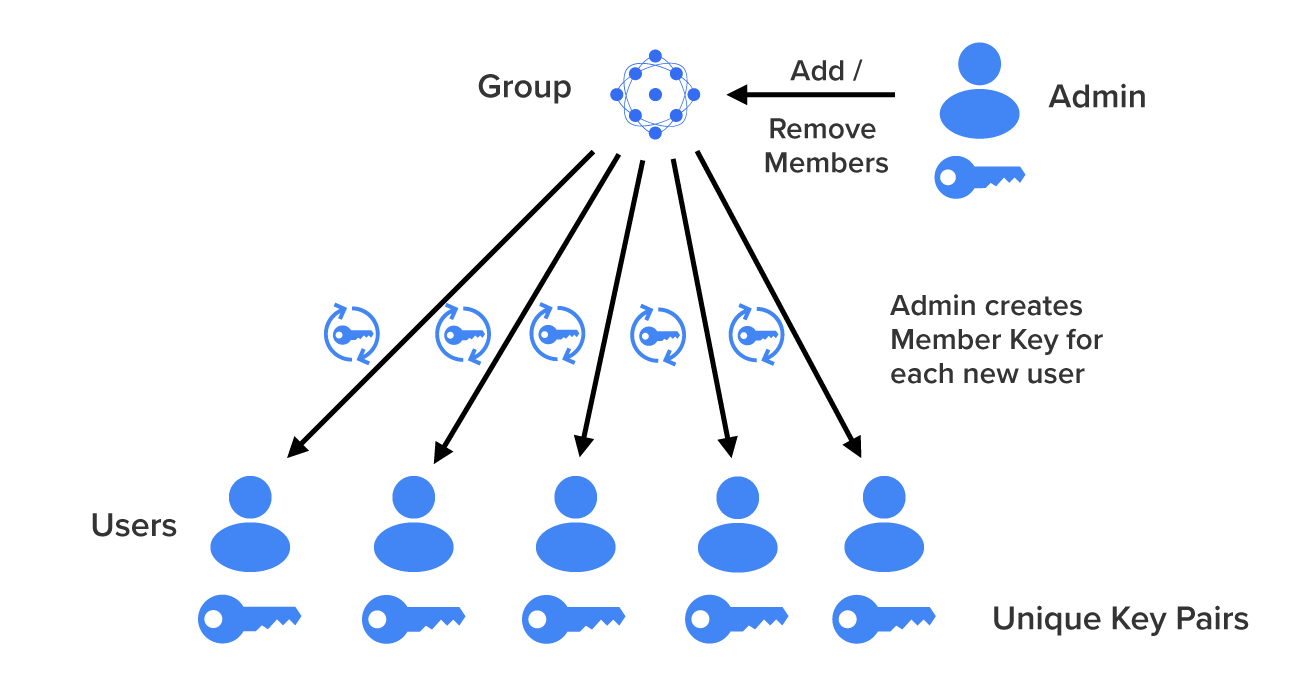
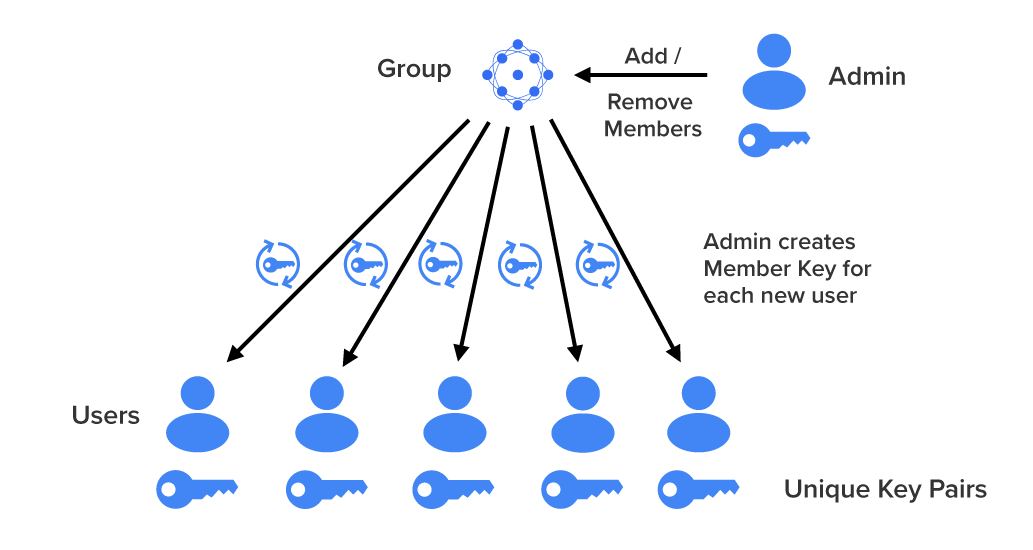
Shrunk images and fixed some visual issues

diff --git a/_sass/slides.v2.3.scss b/_sass/slides.v2.3.scss
@@ -730,15 +730,14 @@ input:focus:valid {
   box-shadow: 0 0 10px $green;
 }
 .highlight .gutter {
-  font-family: $fontMonospace;
   color: #999;
   padding-right: 1em;
-  line-height: 1.4em;
 }
 
-.code pre {
+.highlight {
   line-height: 1.4em;
   font-family: $fontMonospace;
+  font-size: 150%;
 }
 
 .wrap ul:not(.grid) {
@@ -760,5 +759,11 @@ input:focus:valid {
   }
   .wrap {
     padding: calc(2% + 50px) calc(8% + 15px);
+  }
+  p img {
+    margin-left: auto;
+    margin-right: auto;
+    max-width: 100%;
+    display: block;
   }
 }
